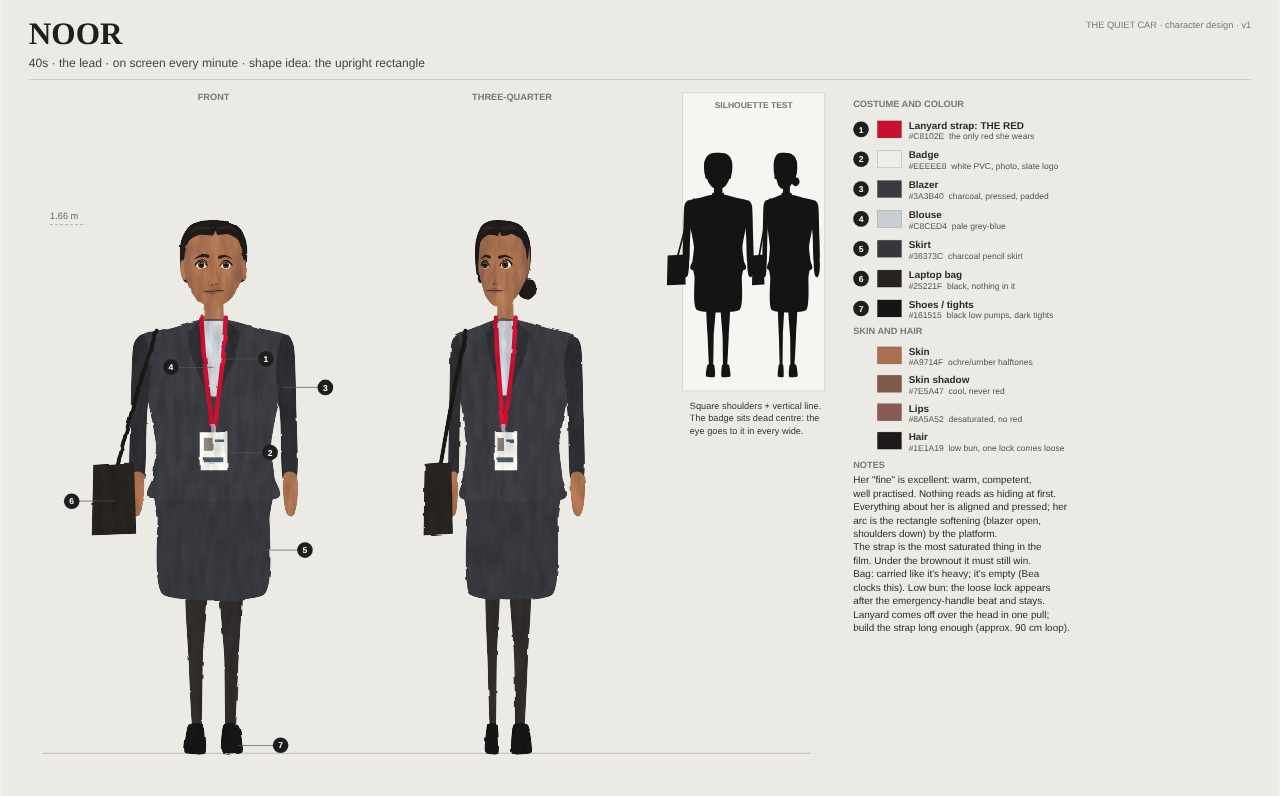
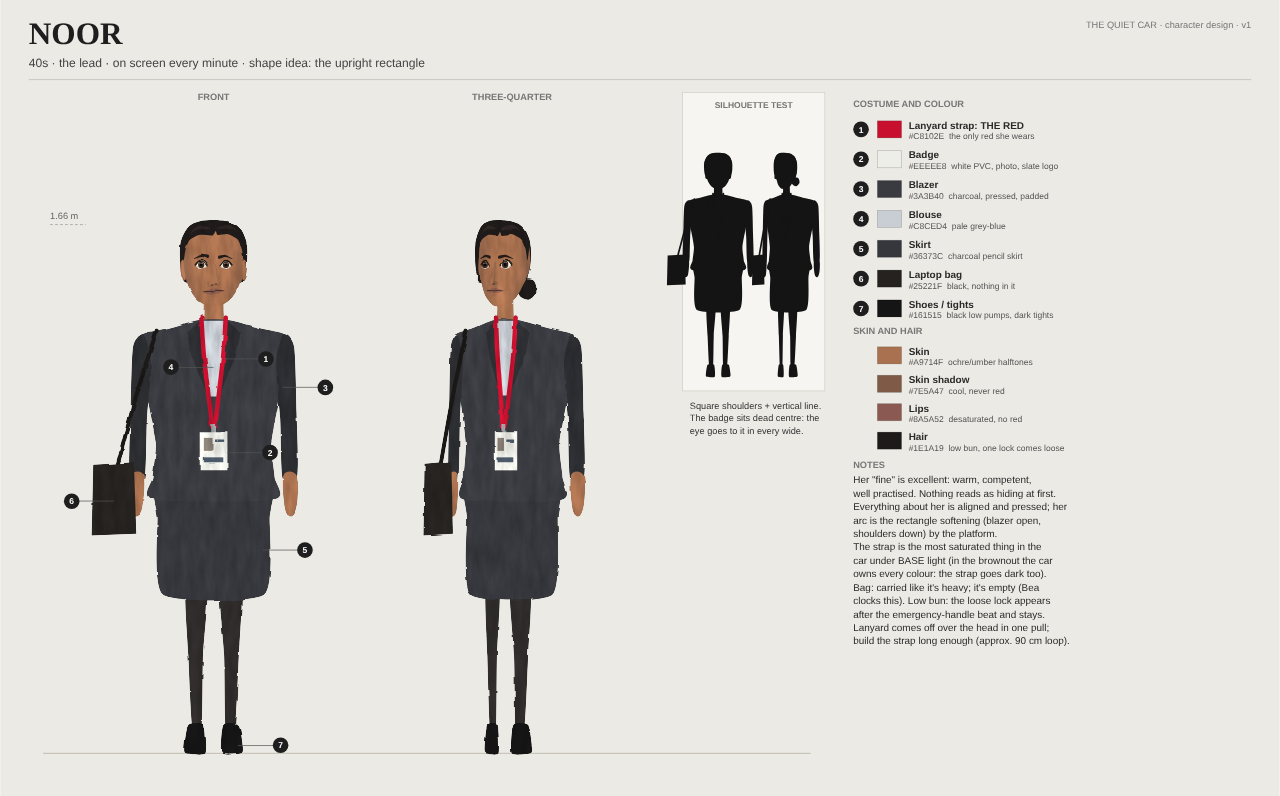
Design: red-strap rule amended per Director (BASE and creeping dark, not brownout)
Claude-Session: https://claude.ai/code/session_01W37kuJaPfCxGNG6Qm9m3cN

Changed region(s): [[0.6562, 0.6935, 0.8438, 0.8141]]

diff --git a/film/design/tools/sheets_data.py b/film/design/tools/sheets_data.py
@@ -32,7 +32,8 @@ SHEETS = {
             "arc is the rectangle softening (blazer open,",
             "shoulders down) by the platform.",
             "The strap is the most saturated thing in the",
-            "film. Under the brownout it must still win.",
+            "car under BASE light (in the brownout the car",
+            "owns every colour: the strap goes dark too).",
             "Bag: carried like it's heavy; it's empty (Bea",
             "clocks this). Low bun: the loose lock appears",
             "after the emergency-handle beat and stays.",

diff --git a/film/design/style-guide.md b/film/design/style-guide.md
@@ -109,7 +109,7 @@ This film lives at the bottom of the exposure range. Rules for paint as light fa
 | **Asleep, full row (~4300 K, slight green)** | Full palette, full stroke texture, flat and even. Faces read clearly. Unglamorous. |
 | **Breathing (±2–3%)** | Nothing changes in the paint. Only the light moves. |
 | **One panel dipping (cues 1, 2, 5, 6)** | The pool under the panel is the only full-detail area. Outside it, strokes **merge into larger, quieter shapes** and texture contrast drops, the way a painter would simplify a background in shadow. Faces in the dipped pool keep firm features (rule 4). |
-| **Brownout (cue 3, ~2200 K, ~2.5 stops down)** | The whole frame goes close to monochrome warm. Colour separation almost disappears **except the red strap**, which must remain the most saturated thing on screen. Shadows go to warm umber, never to noise. |
+| **Brownout (cue 3, ~2200 K, ~2.5 stops down)** | The whole frame goes close to monochrome warm and colour separation almost disappears. **In the brownout the car owns every colour: the red strap goes dark with everything else** (Director, `notes/cg-notes-03.md`). Under sodium light the red should physically die, and we never grade it back in. Shadows go to warm umber, never to noise. |
 | **Single lit section / creeping dark (cue 7)** | Hard light edge on the floor (section 4). Inside the dark: real black, no texture showing. Inside the light: full detail. |
 | **Phone light from below** | Small, cold, hard-ish source. Lights the underside of the chin, nose and brows. The strokes on the face follow the new terminator. Noor's MARK glow must read as cold blue-white against the warm skin. |
 | **Blackout (cue 4)** | **Mathematically black: 0,0,0.** No paper texture, canvas tooth, grain, vignette or Kuwahara edge glow is allowed to lift it. Any texture overlay is **multiply-only** (black × anything = black). Nothing glows in the dark: no emissive paint, no glow in the eyes. |
@@ -128,7 +128,9 @@ There is **one red** in the film, used on exactly two things:
 - **Noor's lanyard strap**
 - **The end-call button on Kai's phone screen**
 
-Both use **THE RED `#C8102E`** (sRGB). Nothing else in the car may be red, pink, magenta, maroon, coral or rust: not lips, not cheeks, not a bag strap, not a newspaper masthead, not a shoelace, not a phone case, not a sticker, not an exit sign. Skin "warmth" is ochre and umber, not red. Lips are a desaturated mauve-brown. Under the brownout, check that the strap is still the most saturated object in frame.
+Both use **THE RED `#C8102E`** (sRGB).
+
+**Where the red must win** (measured as CIELAB chroma, emitters excluded): under **BASE** light and in the **creeping-dark** states, the strap is the highest-chroma object in frame. That covers the boarding tick (cue 0, shot 2), and the throw onto the floor, red on grey (shots 45–46). **In the brownout (cue 3) it doesn't have to win**: the car owns every colour there, and the strap goes dark with everything else. No grade, colour key or mask is ever used to rescue it, because every change in the frame has to be the car's light. Nothing else in the car may be red, pink, magenta, maroon, coral or rust: not lips, not cheeks, not a bag strap, not a newspaper masthead, not a shoelace, not a phone case, not a sticker, not an exit sign. Skin "warmth" is ochre and umber, not red. Lips are a desaturated mauve-brown. 
 
 Noor's own phone UI has **no red**: her in-call screen uses a dark grey end-call button (see `props/props.md`).
 
@@ -185,7 +187,7 @@ My proposal for how Blender can deliver this. **The TA has final say on method; 
 5. **No outlines** (Freestyle off). No noise in shadows (denoise, or EEVEE).
 6. **Faces:** shape keys or bones for the controls in `expressions/face-rig.md`, with the values on the expression sheets as targets.
 7. **Previs blocking figures** (Milestone 4): heights and seated heights are on the lineup sheet so the proxies are the right size for the DP's lenses and eye-lines.
-8. **Checks I'd like on the first look-dev render:** (a) the blackout frame is all zeros; (b) the strap is the most saturated pixel cluster under cue 3; (c) the catchlight row shows in the eyes at 40 mm and disappears panel by panel in cue 7; (d) nothing in the paint moves between two frames of an asleep shot.
+8. **Checks I'd like on the first look-dev render:** (a) the blackout frame is all zeros; (b) the strap is the highest CIELAB-chroma object under BASE (shot 2) and on the floor in the creeping dark (shot 46), not under cue 3; (c) the catchlight row shows in the eyes at 40 mm and disappears panel by panel in cue 7; (d) nothing in the paint moves between two frames of an asleep shot.
 
 ---
 

diff --git a/film/STATUS.md b/film/STATUS.md
@@ -43,3 +43,4 @@ Append-only log. Newest at the bottom. Format: `- [role] what happened (file)`
 - [ta] v2.1: Designer's face rig (design/rig/heads.py) integrated for all four heads with painted materials; Bea F2 lids via rig; luminance-masked Kuwahara for darks; satin rails (DP). All 9 frames re-rendered, checks re-run: blackout 0, strap, keys, asleep-identical PASS; E2 PASS; E3 PASS under BROWN; E1 PARTIAL (P12 sub-pixel at C75) (cg/stills/checks/REPORT.md)
 - [designer] Rig v3: smooth painted hairlines (Noor side-parted sweep + bun, Kai, Bea, Walter's side band), nose as a wedge, smaller ears (design/rig/heads.py). Flagged a colour-fidelity issue in sf06 to the TA (characters render lighter/desaturated vs palette: blazer brighter than the wall)
 - [ta] R3 (Director cg-notes-02 + Designer redline): elongated form-following dabs, calm planes, smooth figure geometry, warmer skin, slimmer neck, charcoal blazer at low dab contrast; sf06 face 0.42 vs wall 0.29. Re-rendered all 9; checks re-run. FOUND: the strap-saturation check had used an invalid HSV metric; with CIELAB chroma the strap is NOT the most saturated thing under BROWN in the Meter (11 vs 45). Flagged to Director/Designer/DP with options (cg/stills/checks/REPORT.md)
+- [designer] Style guide §5/§6.1/§8 amended per Director (cg-notes-03): the red strap must win under BASE and in the creeping dark (shots 2, 45–46, CIELAB chroma); in the brownout the car owns every colour, and no grade rescues the red. Noor sheet note updated (design/)
